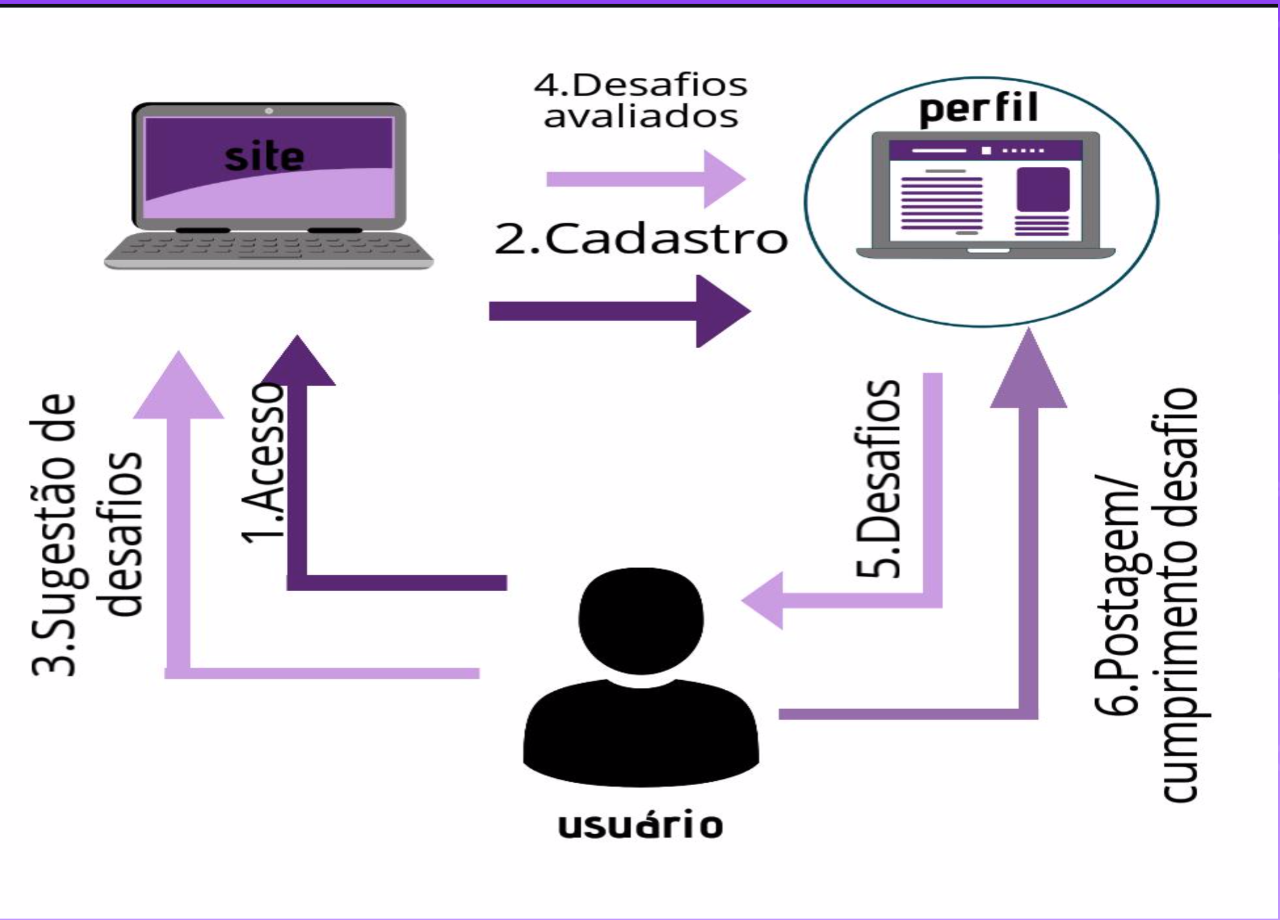
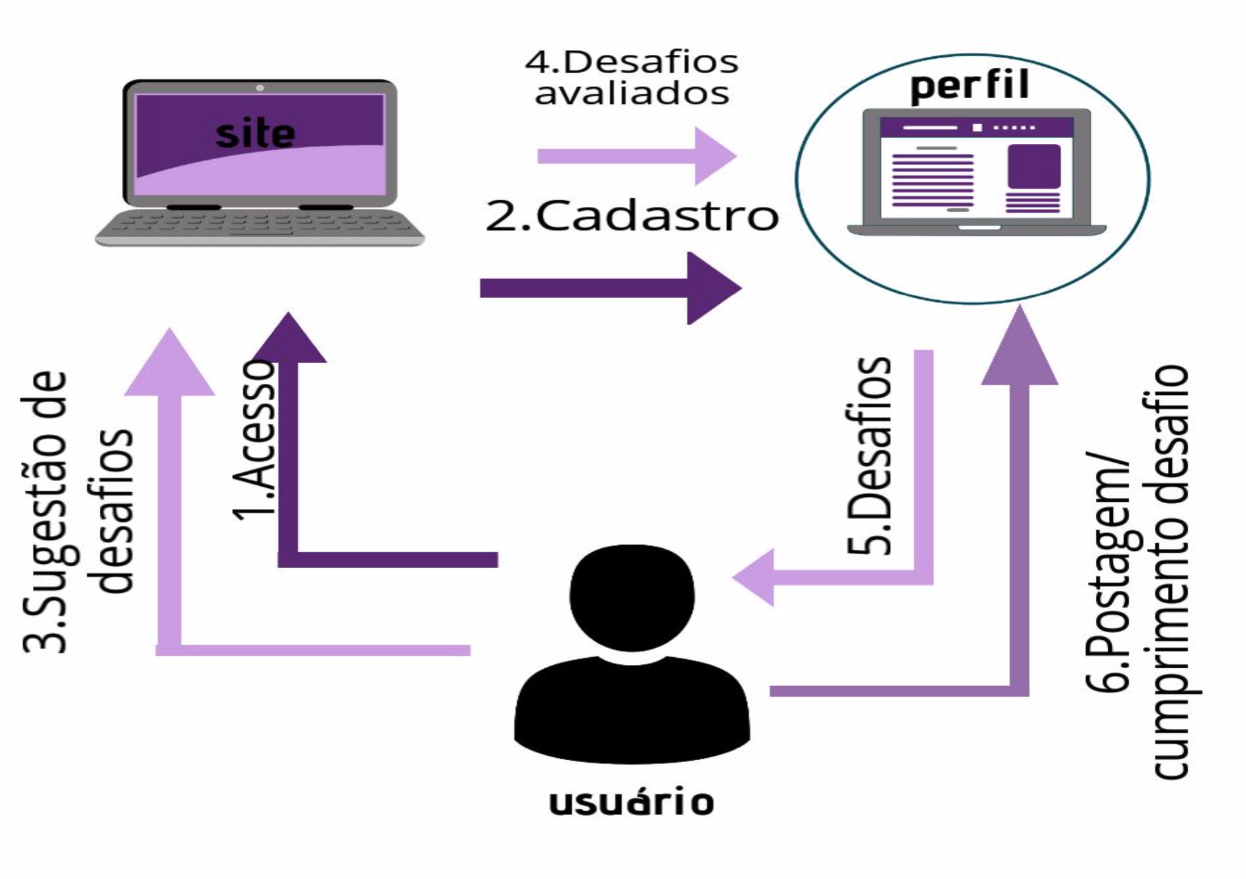
pagina de cadastro responsiva

diff --git a/website/static/css/styleindex.css b/website/static/css/styleindex.css
@@ -23,8 +23,8 @@ margin: 0;
 }
 
 .nav-base img {
-    margin-left: 35%;
-    width: 100px;
+    margin-left: 40%;
+    width: 80px;
     
 }
 
@@ -167,13 +167,13 @@ form input {
 }
  .fluxograma{
      width: 75%;
-     margin-left: 12.5%;
+     margin:12.5%;
  }
 
 section {
     
     grid-area: section;
-    margin-top: -330px;
+    margin-top: -280px;
 }
 
 section img {
@@ -184,13 +184,7 @@ section img {
     margin-left: 30%;
 }
 
-@media(min-width:710px) {
-    section img {
-        align-items: center;
-        margin-top: 10px;
-        margin-left: 210px;
-    }
-}
+
 
 section h1,
 h4, h6{
@@ -200,6 +194,7 @@ h4, h6{
 
 section p {
     margin: 18px;
+    text-align: center;
 }
 
 .politica{
@@ -232,28 +227,76 @@ footer p a {
     text-decoration: none;
 }
 @media(min-width:480px){
-    section{
-        margin-top: -80px;} 
     .banner h3{
         font-size: 16px;
+           width: 200px;
+           
+    } 
+   .fluxograma{
+    margin-top: -20px;
+   }
+   h6{
+       margin-top: -60px;
+   }
+    .nav-base img {
+        margin-left: 2px;
+        width: 80px;
+        
     }
+    .nav-base p{
+        display: flex;
+    }
+    .menu label img {
+        width: 30px;
+        margin-left: 25px;
+        
+    }
+    
+    section{
+        margin-top: -200px;} 
+        
+   
+    }
+    section h4{
+        margin-top: 40px;
+       
+    }
+    section img {
+        
+        margin-left: 100px;
     }
    
     @media(min-width:640px){
-        section{
-            margin-top: -50px;
-        }
+        
         .banner h3{
             font-size: 18px;
+            width: 300px;
+                   
+        
         }
+    }
+    h6{
+        font-size: 13pt;
+    }
+    .politica{
+        font-size: 12pt;
     }
     
 
 @media(min-width:710px){
+    .img-1{
+        margin-left: 25%;
+     }
 
 section{
-    margin-top: 0;
+    margin-top: -120px;
 }
+
+    section img {
+    
+        margin-left: 100px;
+    }
+
 .banner h3{
     
     font-size: 20px;
@@ -261,11 +304,23 @@ section{
 }
 }
 @media(min-width:1024px){
+   
     .banner h3{
-        
+        width: 800px;
         font-size: 25px;
+        margin-left: 70px;
+        
+    } 
+    body{
+        grid-template-rows: 12vh 5vh 82.5vh 250vh 10vh;
         
     }
+    .fluxograma{
+        width: 40%;
+        margin-left: 30%;
+
+    }
+     
 .img-1{
     margin-left: 30%;
  }
@@ -275,10 +330,15 @@ section{
  .menu .link{
      font-size: 15px;
  }
+
+ section{
+    margin-top: 2px;
+ }
  section h1{
     font-size: 60px;
  }
  section h4{
+     margin-top: 60px;
     font-size: 30px;   
  }
  section h6{
@@ -290,7 +350,7 @@ section{
  }
 section p{
     
-    font-size: 20px;
+    font-size: 30px;
     margin-right: 15px;
     margin-left: 15%;
     text-align: center;
